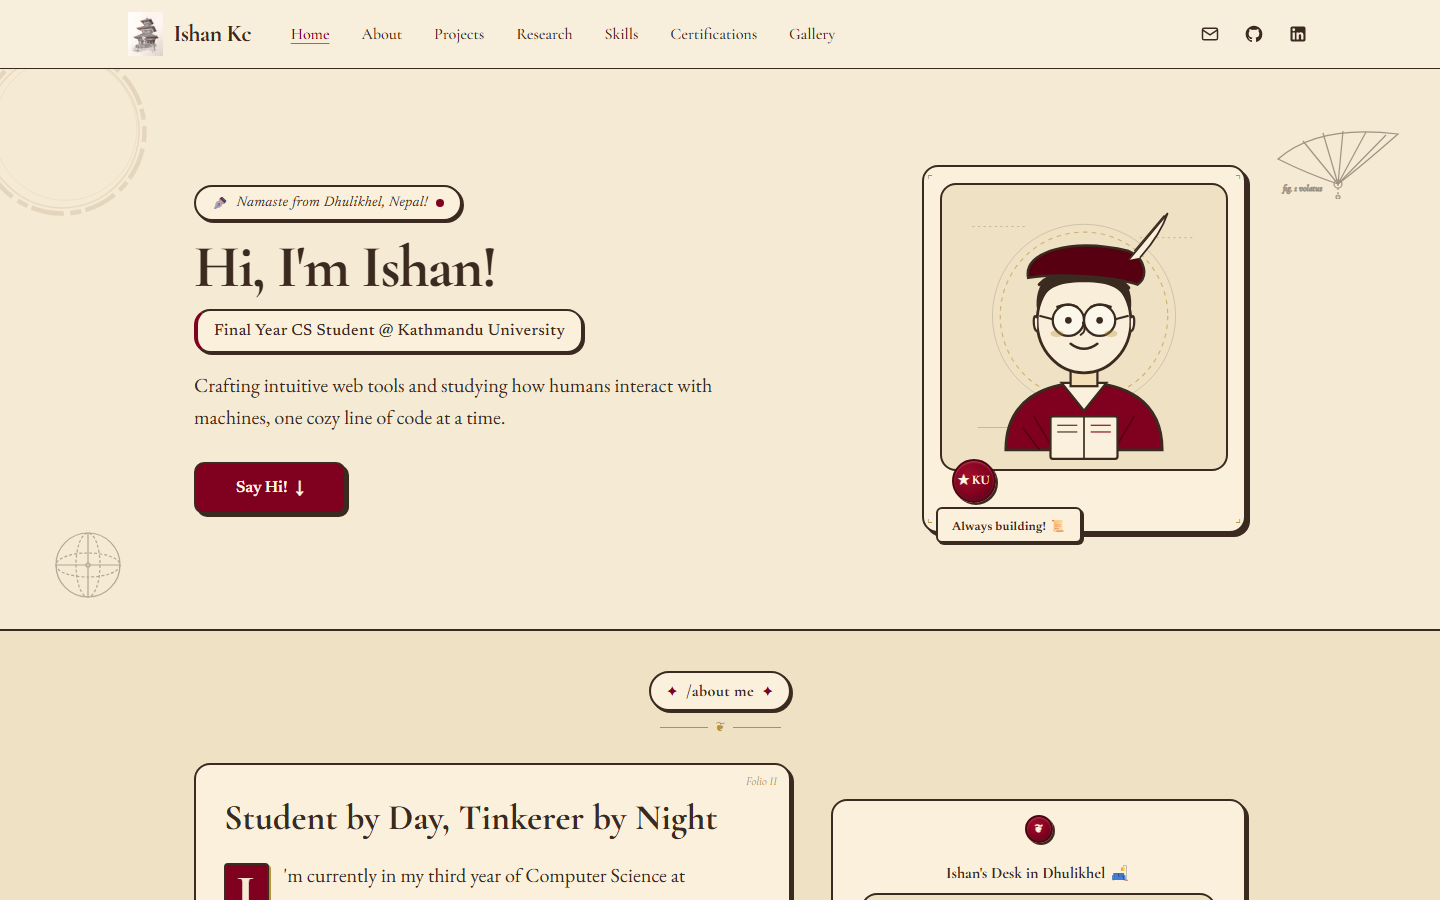
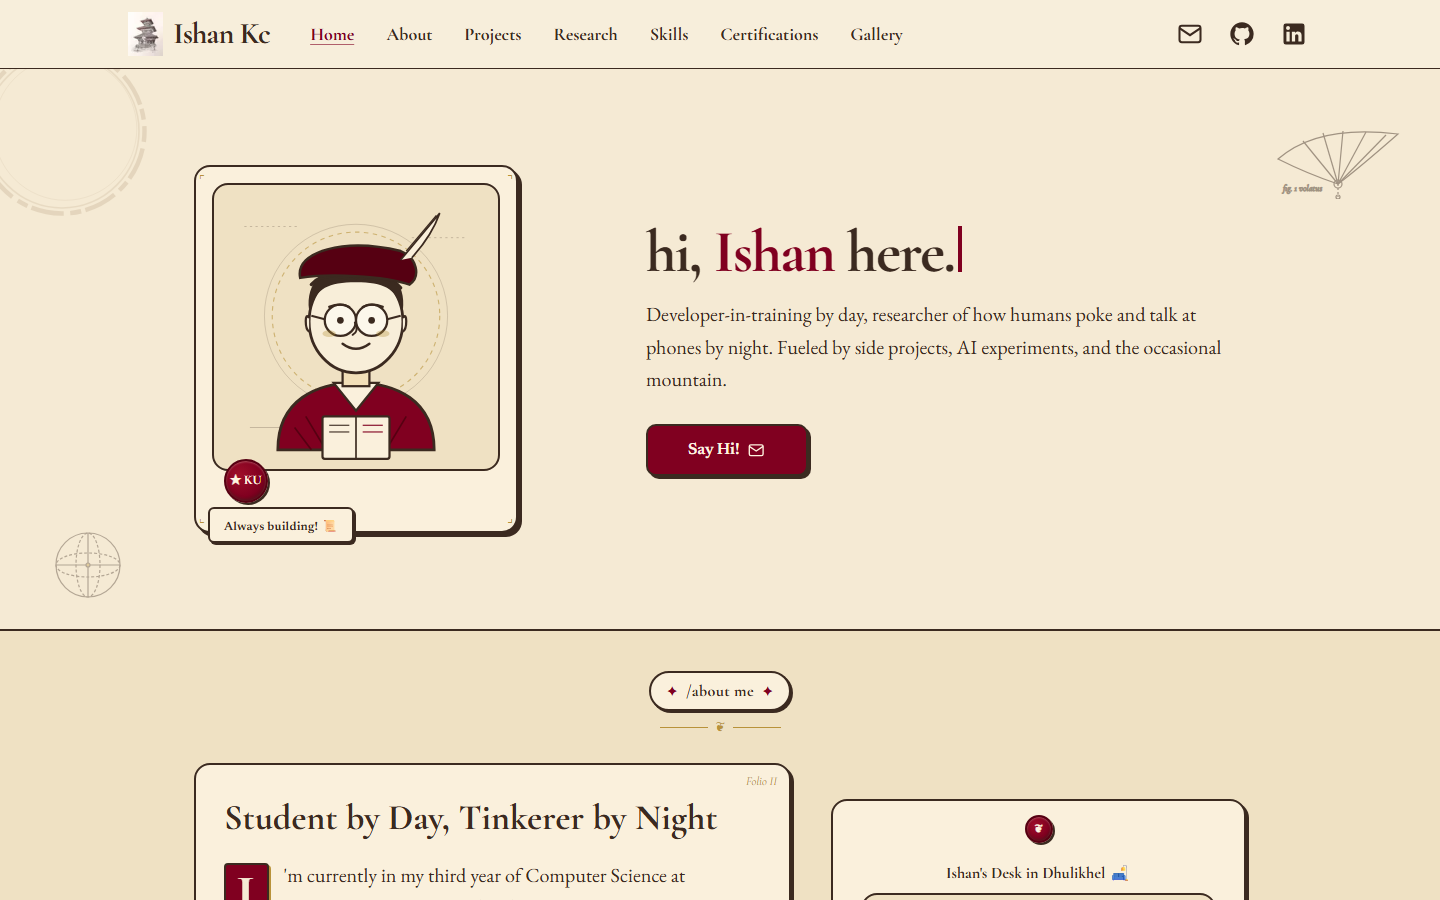
enhance Hero component with blinking cursor effect; update profile data structure; adjust image dimensions; improve MobileNav and Navbar styles

diff --git a/src/components/Navbar.tsx b/src/components/Navbar.tsx
@@ -4,16 +4,16 @@ import { GitHubIcon, LinkedInIcon, MailIcon } from "./icons";
 import { MobileNav } from "./MobileNav";
 
 function SocialIcon({ icon }: { icon: "mail" | "github" | "linkedin" }) {
-  if (icon === "mail") return <MailIcon className="h-5 w-5" />;
-  if (icon === "github") return <GitHubIcon className="h-5 w-5" />;
-  return <LinkedInIcon className="h-5 w-5" />;
+  if (icon === "mail") return <MailIcon className="h-6 w-6 sm:h-7 sm:w-7" />;
+  if (icon === "github") return <GitHubIcon className="h-6 w-6 sm:h-7 sm:w-7" />;
+  return <LinkedInIcon className="h-6 w-6 sm:h-7 sm:w-7" />;
 }
 
 export function Navbar() {
   return (
     <header className="sticky top-0 z-50 w-full border-b-[1.5px] border-[#3B2A20] bg-[#F7EEDB] transition-all">
       <div className="relative mx-auto flex max-w-7xl items-center justify-between px-6 py-3 md:px-12">
-        <div className="flex items-center gap-6 lg:gap-10">
+        <div className="flex items-center gap-6 xl:gap-10">
           <a
             aria-label="Ishan Kc — back to top"
             className="group inline-flex items-center gap-2.5"
@@ -23,27 +23,27 @@ export function Navbar() {
               alt=""
               aria-hidden="true"
               className="h-11 w-auto shrink-0 select-none"
-              height={55}
+              height={56}
               priority
               src="/images/temple.png"
               width={44}
             />
-            <span className="whitespace-nowrap font-headline-lg text-xl font-bold tracking-tight text-[#3B2A20] transition-colors group-hover:text-[#800020] sm:text-2xl">
+            <span className="whitespace-nowrap font-headline-lg text-2xl font-extrabold tracking-tight text-[#3B2A20] transition-colors group-hover:text-[#800020] sm:text-3xl">
               Ishan Kc
             </span>
           </a>
 
           <nav
             aria-label="Primary navigation"
-            className="hidden items-center gap-6 lg:flex xl:gap-8"
+            className="hidden items-center gap-4 lg:flex xl:gap-8"
           >
             {site.navItems.map((item) => (
               <a
                 aria-current={item.href === "#" ? "page" : undefined}
                 className={
                   item.href === "#"
-                    ? "whitespace-nowrap font-headline-md text-[15px] font-medium text-[#800020] underline decoration-[#800020]/60 decoration-1 underline-offset-4 transition-colors sm:text-[16px]"
-                    : "whitespace-nowrap font-headline-md text-[15px] font-medium text-[#3B2A20] transition-colors hover:text-[#800020] hover:underline hover:decoration-[#800020]/60 hover:decoration-1 hover:underline-offset-4 sm:text-[16px]"
+                    ? "whitespace-nowrap font-headline-md text-[17px] font-extrabold text-[#800020] underline decoration-[#800020]/60 decoration-1 underline-offset-4 transition-colors xl:text-lg"
+                    : "whitespace-nowrap font-headline-md text-[17px] font-extrabold text-[#3B2A20] transition-colors hover:text-[#800020] hover:underline hover:decoration-[#800020]/60 hover:decoration-1 hover:underline-offset-4 xl:text-lg"
                 }
                 href={item.href}
                 key={item.label}

diff --git a/src/components/Hero.tsx b/src/components/Hero.tsx
@@ -1,5 +1,6 @@
 import { hero } from "@/data/profile";
 import { Button } from "./Button";
+import { MailIcon } from "./icons";
 import { WaxSeal } from "./WaxSeal";
 import { MascotIllustration } from "./illustrations/MascotIllustration";
 import {
@@ -16,30 +17,16 @@ export function Hero() {
       <Astrolabe className="pointer-events-none absolute bottom-6 left-12 hidden select-none opacity-35 md:block" />
 
       <div className="relative mx-auto max-w-[1100px] px-margin">
-        <div className="flex flex-col-reverse items-center gap-space-xl lg:flex-row lg:justify-between">
+        <div className="flex flex-col-reverse items-center gap-space-xl lg:flex-row-reverse lg:justify-between lg:gap-28 xl:gap-32">
           <div className="flex flex-1 flex-col items-center text-center lg:items-start lg:text-left">
-            <div className="ink-shadow-sm mb-space-md inline-flex max-w-full items-center gap-2 whitespace-nowrap rounded-full border-2 border-[#3B2A20] bg-[#FAF0DC] px-space-md py-1.5">
-              <span aria-hidden="true" className="text-xs text-[#B8923A]">
-                ✒
+            <h1 className="mb-space-md font-display-hero text-5xl font-bold leading-none tracking-tight text-[#3B2A20] md:text-6xl">
+              {hero.heading.before}
+              <span className="font-extrabold text-[#800020]">
+                {hero.heading.highlight}
               </span>
-              <span className="font-label-md text-sm italic tracking-wide text-[#3B2A20]">
-                {hero.greeting}
-              </span>
-              <span
-                aria-hidden="true"
-                className="inline-block h-2 w-2 rounded-full bg-[#800020]"
-              />
-            </div>
-
-            <h1 className="mb-3 font-display-hero text-5xl font-bold leading-none tracking-tight text-[#3B2A20] md:text-6xl">
-              {hero.heading}
+              {hero.heading.after}
+              <span aria-hidden="true" className="hero-cursor" />
             </h1>
-
-            <div className="ink-shadow-sm mb-space-md rounded-xl border-2 border-l-4 border-[#3B2A20] border-l-[#800020] bg-[#FAF0DC] px-space-md py-2">
-              <p className="font-label-lg text-[15px] font-medium tracking-wide text-[#3B2A20] sm:text-base">
-                {hero.role}
-              </p>
-            </div>
 
             <p className="mb-space-lg max-w-xl font-body-lg text-xl leading-relaxed text-[#3B2A20]">
               {hero.pitch}
@@ -48,9 +35,7 @@ export function Hero() {
             <div className="flex flex-wrap items-center justify-center gap-space-md lg:justify-start">
               <Button href={hero.cta.href} size="md">
                 <span>{hero.cta.label}</span>
-                <span aria-hidden="true" className="font-bold">
-                  ↓
-                </span>
+                <MailIcon className="h-[1.15em] w-[1.15em]" />
               </Button>
             </div>
           </div>

diff --git a/src/components/MobileNav.tsx b/src/components/MobileNav.tsx
@@ -34,9 +34,9 @@ export function MobileNav({ navItems }: MobileNavProps) {
         type="button"
       >
         {open ? (
-          <CloseIcon className="h-6 w-6" />
+          <CloseIcon className="h-7 w-7" />
         ) : (
-          <MenuIcon className="h-6 w-6" />
+          <MenuIcon className="h-7 w-7" />
         )}
       </button>
 
@@ -50,8 +50,8 @@ export function MobileNav({ navItems }: MobileNavProps) {
             <a
               className={
                 item.href === "#"
-                  ? "font-headline-md text-base font-medium text-[#800020] underline decoration-[#800020]/60 decoration-1 underline-offset-4"
-                  : "font-headline-md text-base font-medium text-[#3B2A20] transition-colors hover:text-[#800020]"
+                  ? "font-headline-md text-lg font-extrabold text-[#800020] underline decoration-[#800020]/60 decoration-1 underline-offset-4"
+                  : "font-headline-md text-lg font-extrabold text-[#3B2A20] transition-colors hover:text-[#800020]"
               }
               href={item.href}
               key={item.label}

diff --git a/src/app/globals.css b/src/app/globals.css
@@ -124,6 +124,29 @@
   text-wrap: balance;
 }
 
+/* Blinking input caret after the hero greeting. */
+.hero-cursor {
+  display: inline-block;
+  width: 0.06em;
+  height: 0.78em;
+  margin-left: 0.06em;
+  vertical-align: -0.02em;
+  background-color: #800020;
+  animation: hero-caret-blink 1.05s steps(1, end) infinite;
+}
+
+@keyframes hero-caret-blink {
+  0%,
+  49% {
+    opacity: 1;
+  }
+
+  50%,
+  100% {
+    opacity: 0;
+  }
+}
+
 @media (prefers-reduced-motion: reduce) {
   html {
     scroll-behavior: auto;
@@ -136,6 +159,11 @@
     animation-iteration-count: 1 !important;
     transition-duration: 0.01ms !important;
     scroll-behavior: auto !important;
+  }
+
+  .hero-cursor {
+    animation: none !important;
+    opacity: 1 !important;
   }
 
   .ink-btn-press:hover,

diff --git a/src/data/profile.ts b/src/data/profile.ts
@@ -1,14 +1,16 @@
 import type { AboutContent, HeroContent } from "./types";
 
 export const hero: HeroContent = {
-  greeting: "Namaste from Dhulikhel, Nepal!",
-  heading: "Hi, I'm Ishan!",
-  role: "Final Year CS Student @ Kathmandu University",
+  heading: {
+    before: "hi, ",
+    highlight: "Ishan",
+    after: " here.",
+  },
   pitch:
-    "Crafting intuitive web tools and studying how humans interact with machines, one cozy line of code at a time.",
+    "Developer-in-training by day, researcher of how humans poke and talk at phones by night. Fueled by side projects, AI experiments, and the occasional mountain.",
   cta: {
     label: "Say Hi!",
-    href: "#projects",
+    href: "#contact",
   },
   mascotBadge: "★ KU",
   mascotCaption: "Always building! 📜",

diff --git a/src/data/gallery.ts b/src/data/gallery.ts
@@ -43,13 +43,13 @@ export const gallery = {
       "🖼 High-Res Ink & Wash Illustration",
       "✨ Transparent PNG Asset",
     ],
-    dimensions: "953 × 1183 px",
+    dimensions: "441 × 566 px",
     saveLabel: "Save Asset (PNG)",
     viewLabel: "View Full Resolution",
     image: {
       src: "/images/temple.png",
-      width: 399,
-      height: 501,
+      width: 441,
+      height: 566,
       alt: "Hand-inked multi-tiered Newari pagoda temple emblem with crimson eaves",
     },
   },

diff --git a/src/data/types.ts b/src/data/types.ts
@@ -25,9 +25,11 @@ export interface Stat {
 }
 
 export interface HeroContent {
-  greeting: string;
-  heading: string;
-  role: string;
+  heading: {
+    before: string;
+    highlight: string;
+    after: string;
+  };
   pitch: string;
   cta: {
     label: string;
